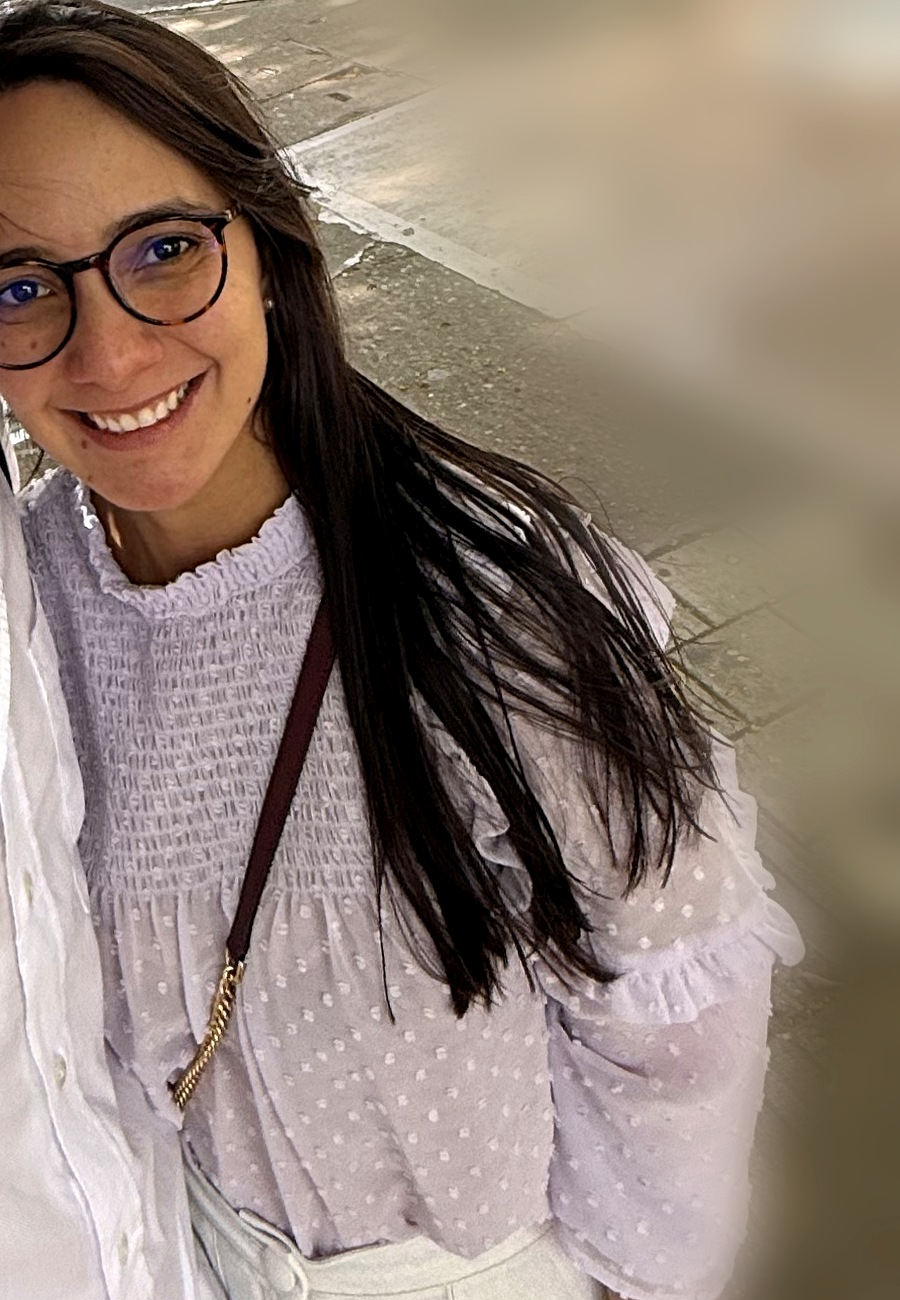
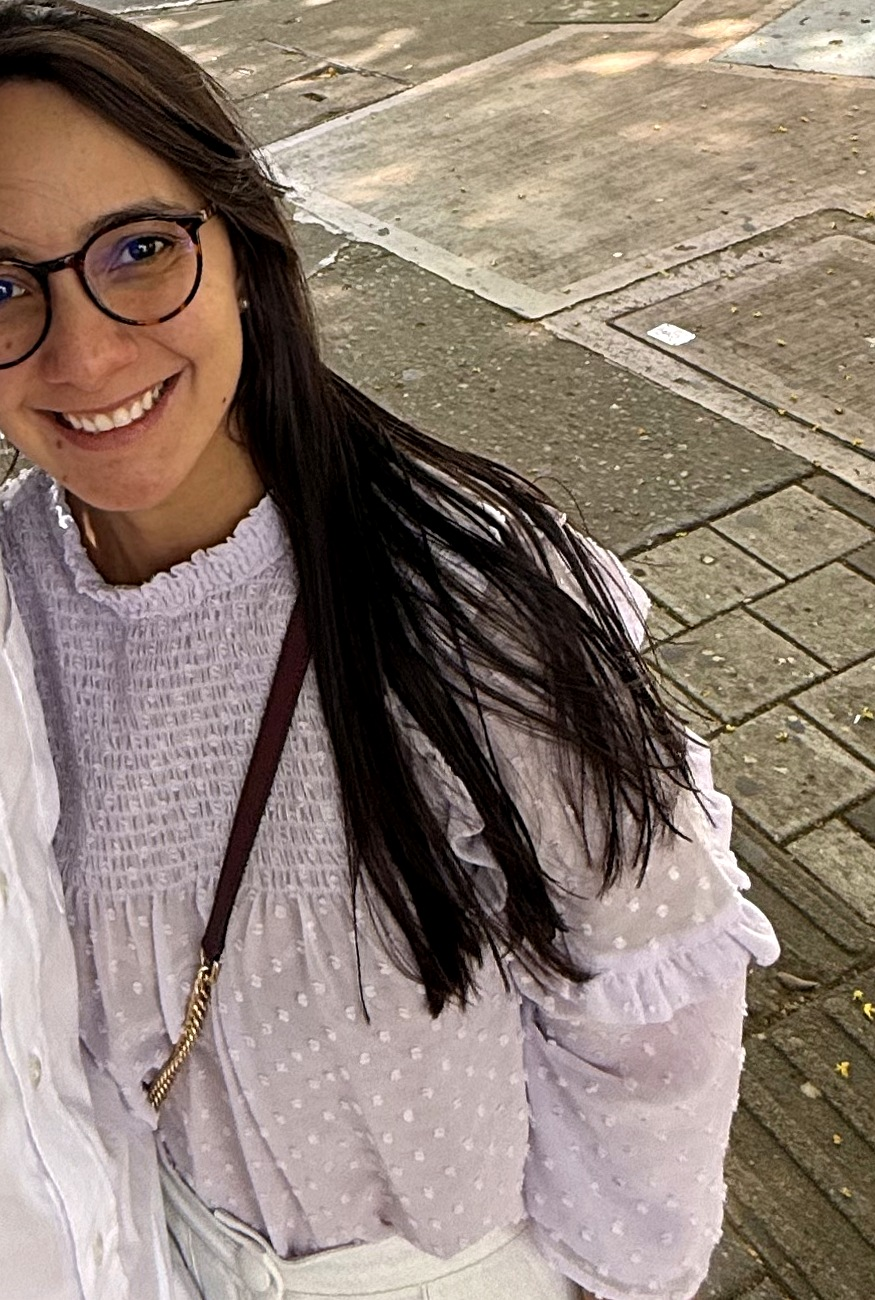
Ajustar bio: quitar foto con desenfoque, texto más corto y sumar perfil en gestión en salud
- Reemplazar la foto de perfil por una versión sin el desenfoque de
  fondo (se veía artificial); mantiene el encuadre recto y sin la
  otra persona de la foto original.
- Reescribir "Por qué hago este trabajo": ya no atribuye la presión
  por el cuerpo/peso a la familia, sino a la sociedad en general, y
  el texto queda mucho más corto.
- Agregar nueva sección sobre su perfil de Administradora de Empresas,
  Máster en Management y Especialista en Gerencia en Salud, y cómo se
  combina con su trabajo como psicóloga.
- "Mi formación" ahora se separa en dos grupos: psicología/salud
  mental y administración/gerencia en salud.

Claude-Session: https://claude.ai/code/session_01GVFPXnrtQaMh87bNaJRHFV

diff --git a/sobre-nosotros.html b/sobre-nosotros.html
@@ -53,15 +53,16 @@
       </div>
       <div>
         <p class="hero-lede">
-          Soy psicóloga y creé Nutre para acompañarte a construir una
-          relación más amable con la comida y con tu cuerpo, desde un
-          enfoque profesional, sin dietas ni juicios.
+          Soy psicóloga y también administradora de empresas. Creé Nutre
+          para unir esas dos miradas y acompañarte a construir una relación
+          más amable con la comida y con tu cuerpo, desde un enfoque
+          profesional, sin dietas ni juicios.
         </p>
         <ul class="bio-credentials">
-          <li>Psicóloga · Universidad de los Andes (2019)</li>
-          <li>Certificación en Terapia de Aceptación y Compromiso (ACT)</li>
-          <li>Certificación en Terapia Cognitivo Conductual (TCC)</li>
-          <li>+3 años acompañando pacientes en consulta</li>
+          <li>Psicóloga · Universidad de los Andes</li>
+          <li>Administradora de Empresas</li>
+          <li>Máster en Management</li>
+          <li>Especialista en Gerencia en Salud</li>
         </ul>
         <a href="hablar.html" class="btn btn-primary">Habla conmigo</a>
       </div>
@@ -73,38 +74,44 @@
       <div class="article-content" style="margin-top:0;">
         <h2>Por qué hago este trabajo</h2>
         <p>
-          Crecí en una familia y un círculo de amigos donde el cuerpo y el
-          peso eran, muchas veces, el tema central de la conversación. La
-          imagen importaba, y mucho. Con los años, vi cómo eso se fue
-          transformando en algo más profundo: una especie de sinónimo de
-          cuánto vales según la disciplina que tienes para perseguir ideales
-          que, de entrada, son imposibles de cumplir para todo el mundo por
-          igual — porque no todos somos iguales, no tenemos las mismas
-          prioridades ni las mismas oportunidades.
-        </p>
-        <p>
-          Esa observación, vivida de cerca durante años, fue lo que me llevó
-          a especializarme en la relación entre psicología, bienestar y
-          alimentación.
+          Vivimos en una sociedad que muchas veces convierte el cuerpo y el
+          peso en sinónimo de cuánto vales, según qué tan disciplinada seas
+          para perseguir ideales imposibles de cumplir para todos por
+          igual —porque no todos somos iguales, ni tenemos las mismas
+          prioridades ni oportunidades—. Ver eso de cerca, una y otra vez,
+          fue lo que me llevó a especializarme en la relación entre
+          psicología, bienestar y alimentación. Soy además una apasionada de
+          correr y de los hábitos saludables, y esa misma pasión me hizo
+          interesarme en la línea —a veces muy delgada— entre cuidar tu
+          cuerpo y desarrollar una relación problemática con él.
         </p>
 
-        <h2>Correr, hábitos saludables y las líneas que aprendí a respetar</h2>
+        <h2>De la gerencia en salud a la salud mental</h2>
         <p>
-          Soy una apasionada de correr y de tener hábitos saludables. Pero
-          es justamente esa pasión, mirada desde la psicología, la que me
-          hizo interesarme profundamente en la línea —a veces muy delgada—
-          entre cuidar tu cuerpo y desarrollar una relación problemática con
-          él. Parte de mi trabajo es ayudarte a encontrar y respetar esa
-          línea en tu propia vida, sin extremos ni expectativas
-          desproporcionadas.
+          Además de psicóloga, soy administradora de empresas, con un
+          Máster en Management y una especialización en Gerencia en Salud.
+          Durante muchos años he trabajado desde la gestión en el sector
+          salud, y en paralelo sigo ejerciendo como psicóloga porque cada
+          día veo más claro lo urgente que es seguir fortaleciendo la salud
+          mental como una parte real del bienestar. Nutre nace de unir esas
+          dos miradas: la visión estratégica de la gestión en salud, y el
+          acompañamiento cercano de la psicología.
         </p>
 
         <h2>Mi formación</h2>
+        <h3>Psicología y salud mental</h3>
         <ul>
           <li><strong>Psicóloga</strong>, Universidad de los Andes (2019).</li>
           <li><strong>Certificación en Terapia de Aceptación y Compromiso (ACT).</strong></li>
           <li><strong>Certificación en Terapia Cognitivo Conductual (TCC).</strong></li>
           <li><strong>Más de 3 años</strong> de experiencia clínica acompañando pacientes.</li>
+        </ul>
+        <h3>Administración y gerencia en salud</h3>
+        <ul>
+          <li><strong>Administradora de Empresas.</strong></li>
+          <li><strong>Máster en Management.</strong></li>
+          <li><strong>Especialista en Gerencia en Salud.</strong></li>
+          <li>Varios años liderando desde la gestión en el sector salud.</li>
         </ul>
 
         <h2>Cómo trabajo</h2>
